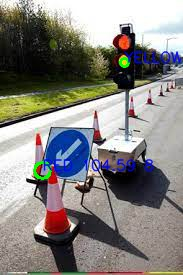
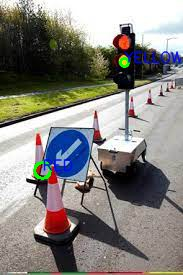
updated exe

Changed region(s): [[0.4645, 0.5527, 0.765, 0.64], [0.7923, 0.5527, 0.847, 0.64]]

diff --git a/traffic_light.py b/traffic_light.py
@@ -37,7 +37,7 @@ def add_to_output(circles, mask, text, output):
             if test:
                 print(text)
                 cv2.circle(output, tuple(center), radius, (0, 255, 0), 2)
-                cv2.putText(output,f'{text} {t:.2f} {radius}',tuple(center), font, 0.5,(255,0,0),1,cv2.LINE_AA)
+                cv2.putText(output,f'{text}',tuple(center), font, 0.5,(255,0,0),1,cv2.LINE_AA)
 
 def recognize(input_file):
     MIN_RADIUS = 0
